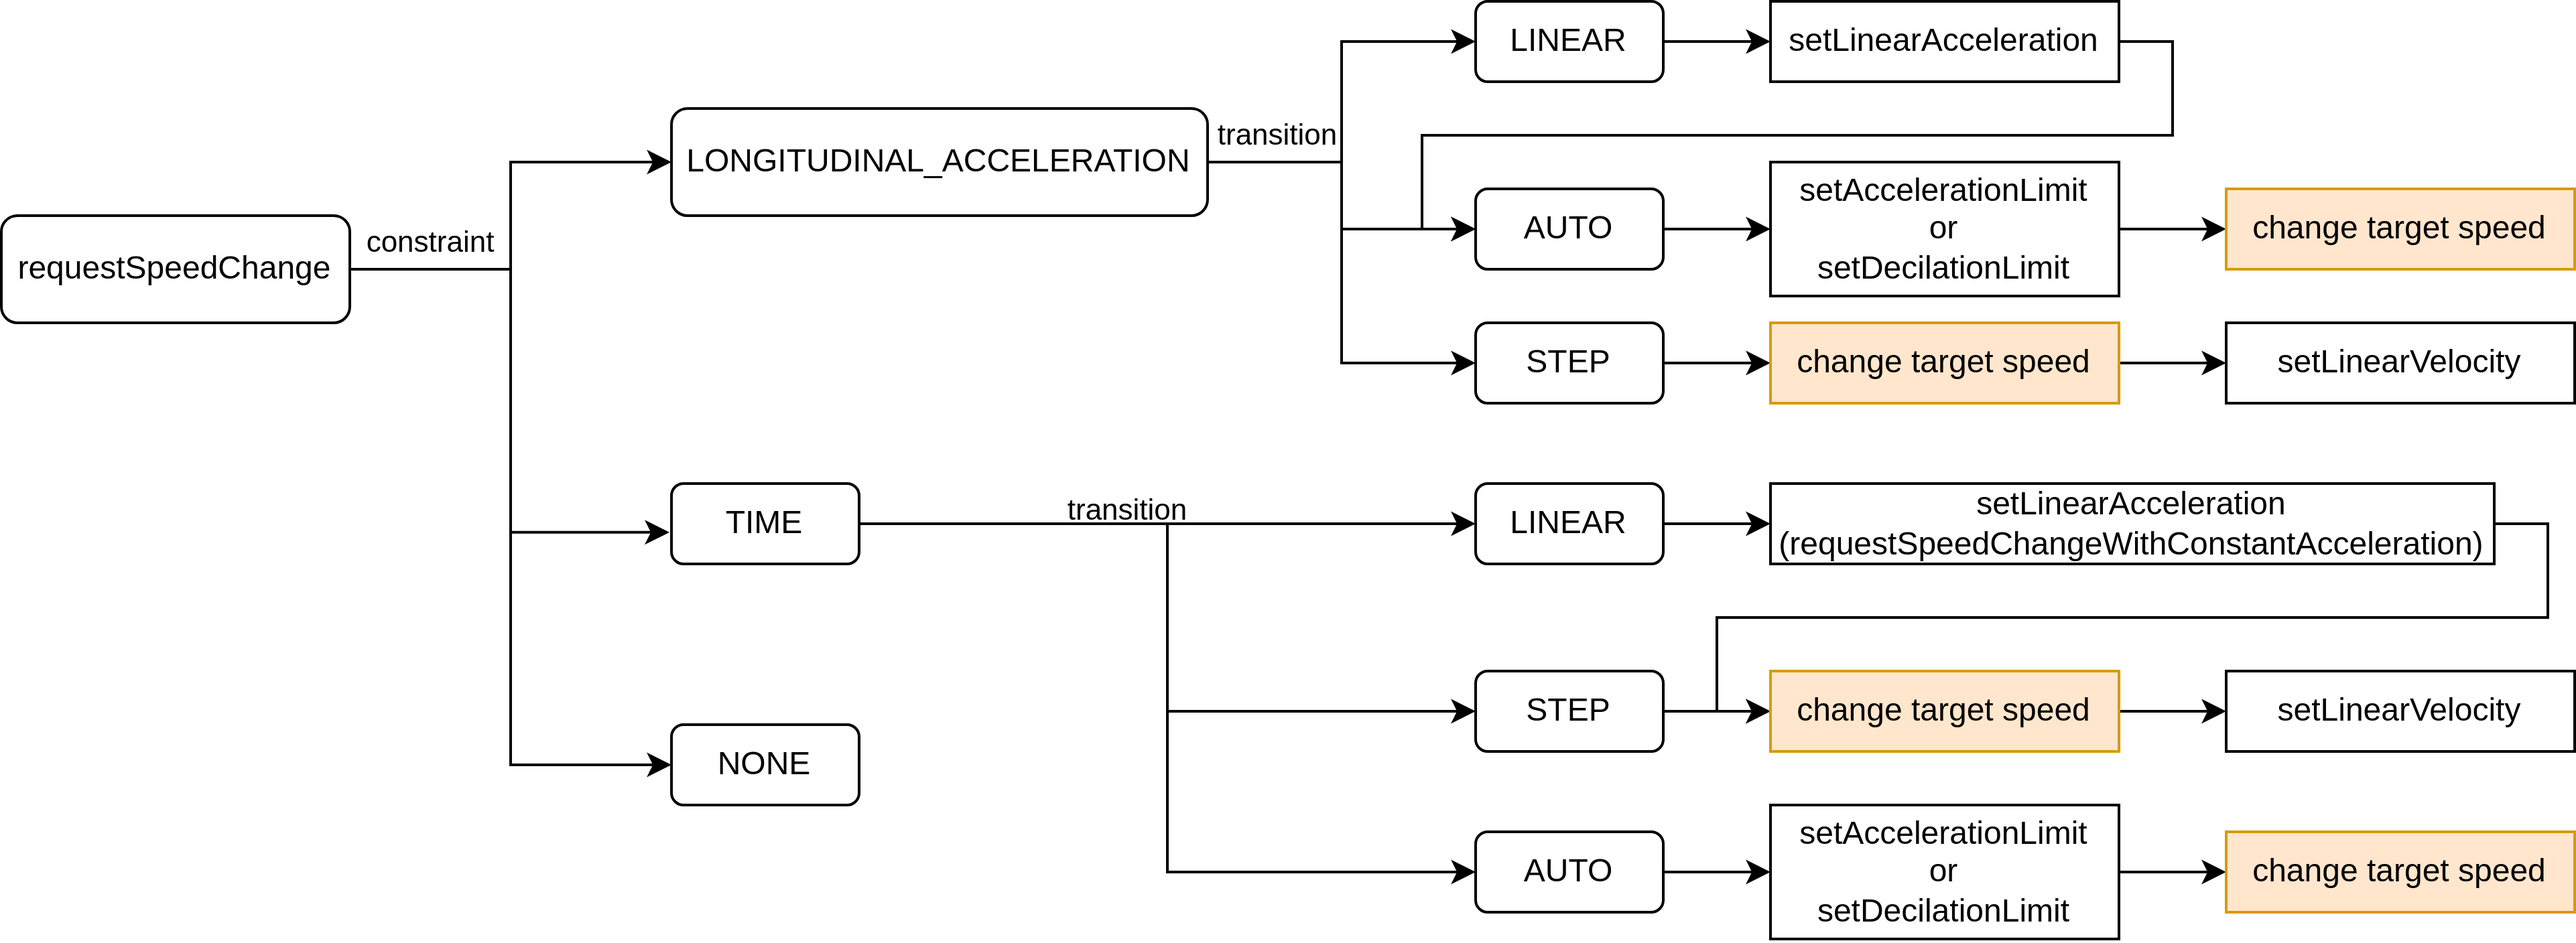
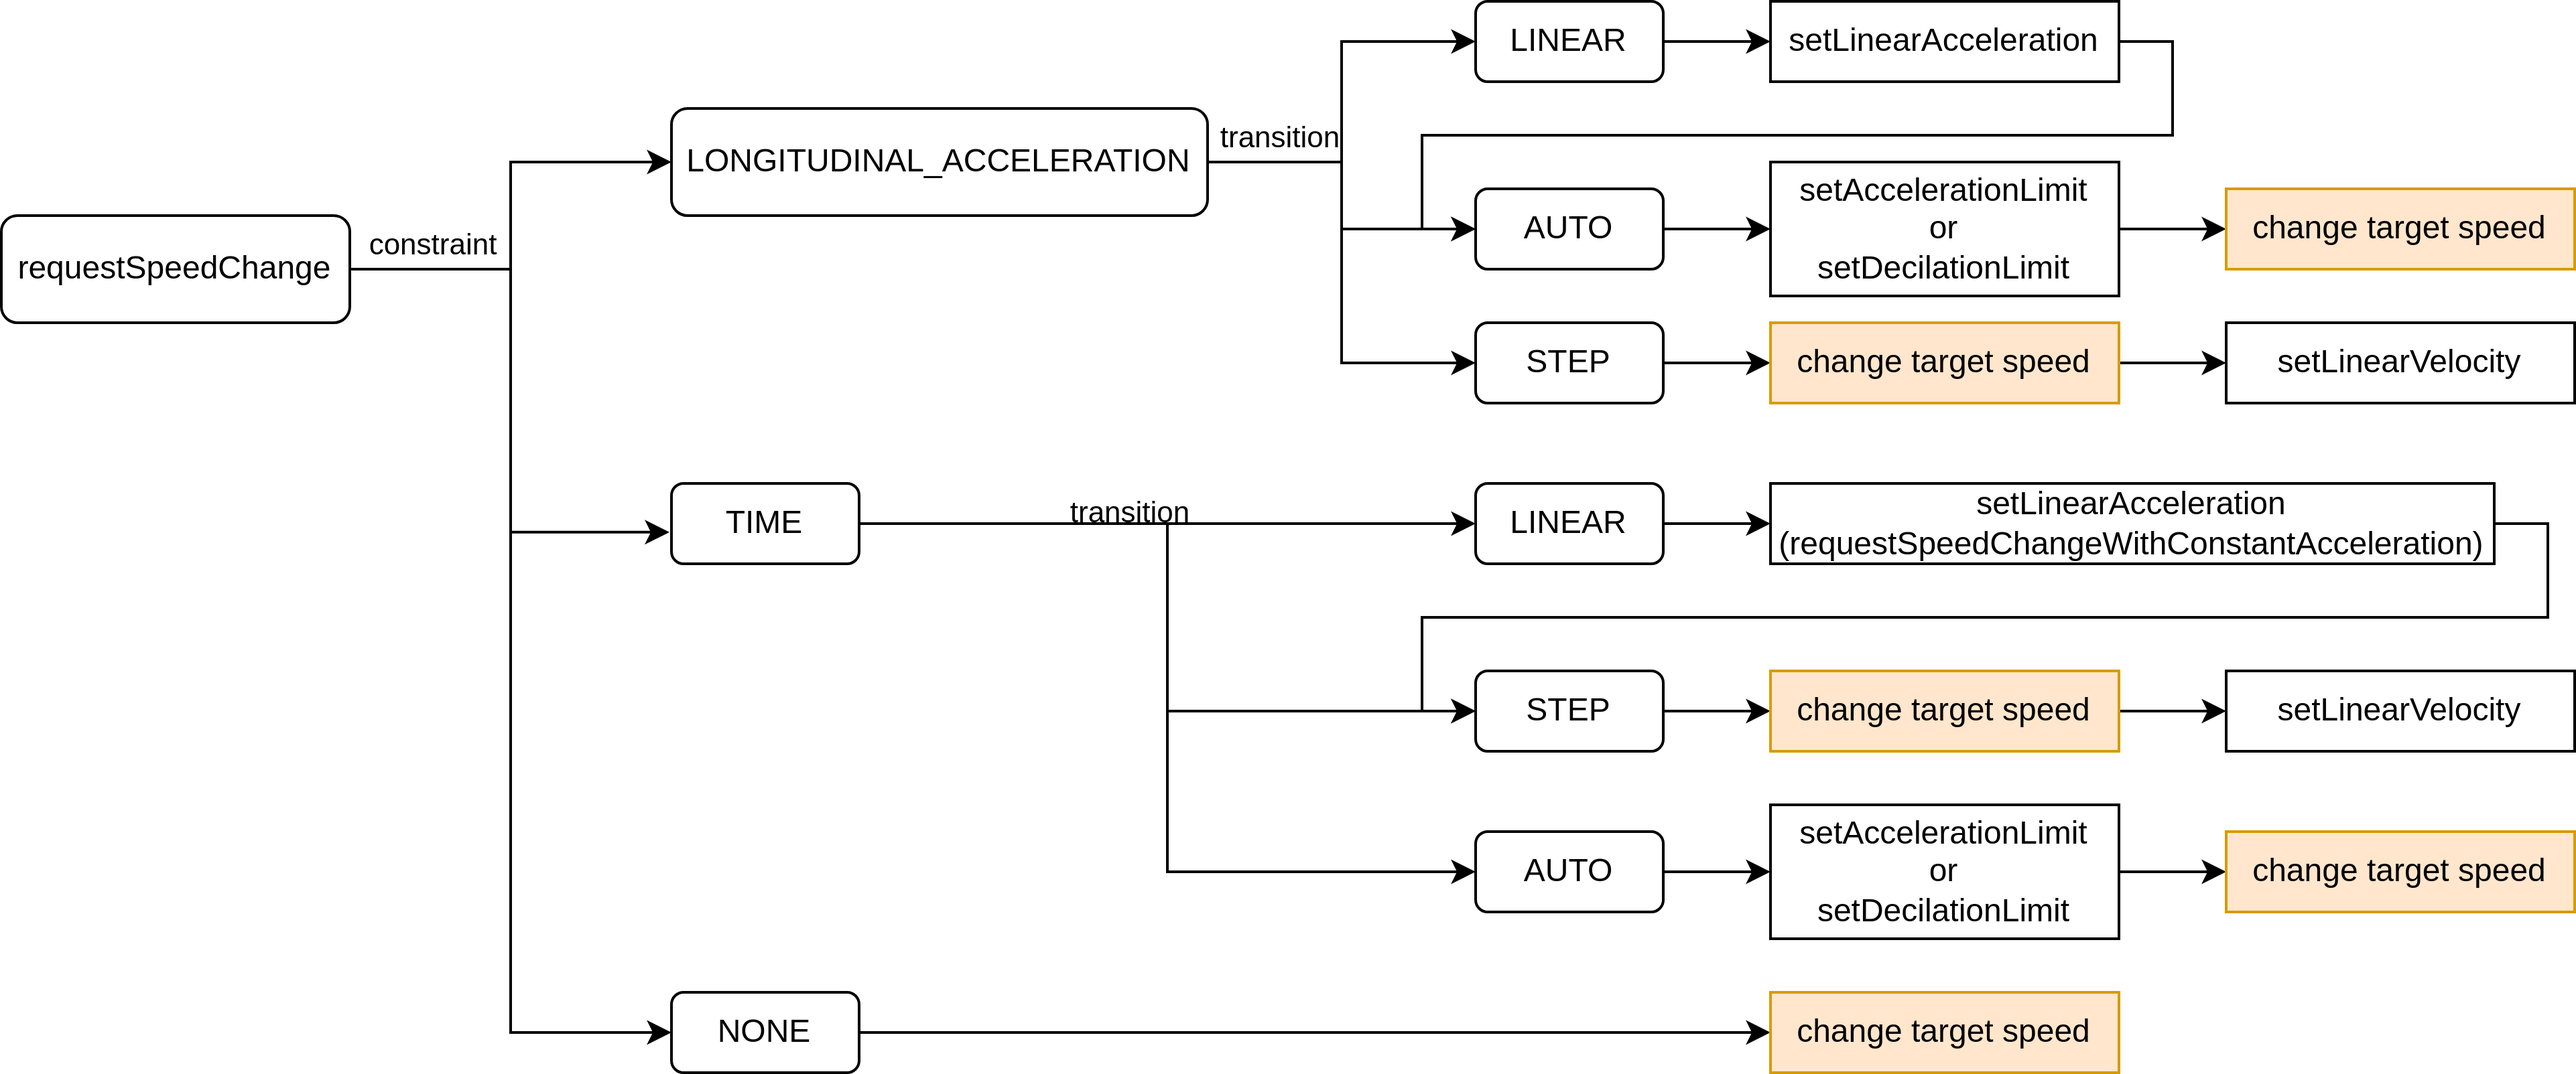
chore: Update Longitudinal_control.md with additional details for requestSpeedChange API

diff --git a/docs/developer_guide/Longitudinal_control.md b/docs/developer_guide/Longitudinal_control.md
@@ -50,12 +50,14 @@ If `continuous` is set to `false`, job to accelerate to target speed will be del
 When `constraint` is set to `LONGITUDINAL_ACCELERATION`, the entity will accelerate to the target speed with acceleration rate you set.
 - If `transition` is set to `LINEAR`, the entity will accelerate to the target speed linearly.
 - If `transition` is set to `AUTO`, it will change the maximum acceleration speed of the entity and append the job to change the target speed of the npc to the job queue. After the npc reaches the target speed, it will change the maximum acceleration speed back to the original value.
-- If `transition` is set to `STEP`, it
+- If `transition` is set to `STEP`, it will
 
 
 When `constraint` is set to `TIME`, the entity will accelerate to the target speed by the time you set.
 When `constraint` is set to `NONE`, is will append the job to change the target_speed of the npc to the job queue.
 
+`change target speed` block in the below figure is the highest priority compared to other blocks.
+If target speed is set somewhere else, the entity will try to change the speed to the target speed under acceleration/deceleration constraints set by the user or if not by the default value.
 ![requestSpeedChange](../images/Longitudinal_control/requestSpeedChange.png)
 
 
